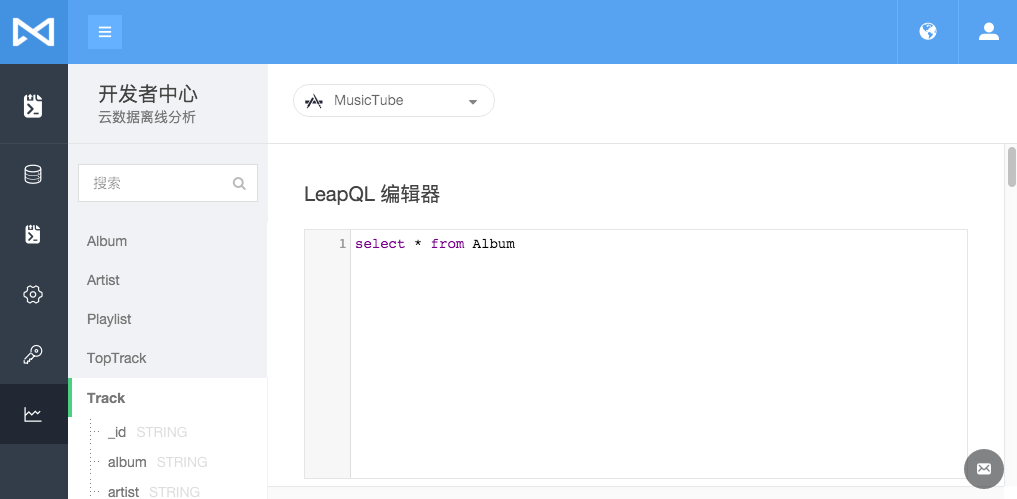
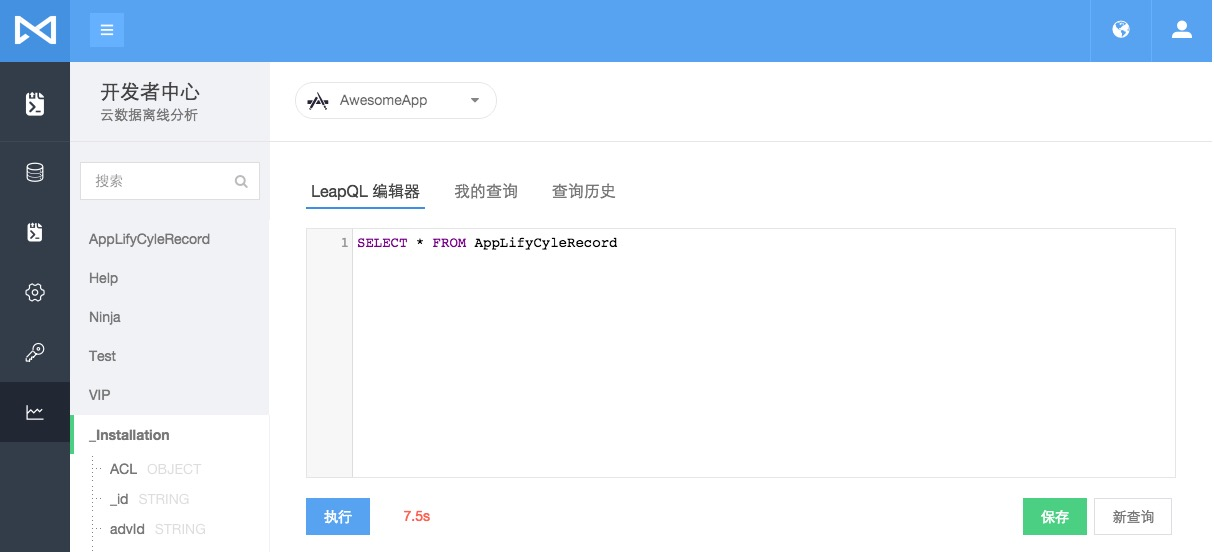
offline analysis update

diff --git a/zh/UserManual/Guide/CloudDataOfflineAnalyze.md b/zh/UserManual/Guide/CloudDataOfflineAnalyze.md
@@ -27,13 +27,33 @@ MaxLeap 云数据离线分析旨在为用户提供一种处理自有应用数据
 
 ![Offline Arch](../../../images/imgOfflineStep1.png "Offline Arch")
 
-- 打开“开发者中心”-“云数据离线分析”页面，如果您的数据已经导入完成，页面会在左侧列出当前的所有表结构
+- 打开“开发者中心”-“云数据离线分析”页面，如果您的数据已经导入完成，页面会在左侧列出当前的所有表结构，如果未完全导入，底部会出现目前导入表的信息
 
 ![Offline Arch](../../../images/imgOfflineStep2.png "Offline Arch")
 
 - 在右侧的编辑器中撰写您的LeapQL语句，点击执行，等待片刻后，页面将会返回执行结果。
 
-![Offline Arch](../../../images/imgOfflineStep3.png "Offline Arch")
+![Offline Arch](../../../images/imgOfflineStep3.jpg "Offline Arch")
+
+
+### 使用我的查询
+- 点击右下角的保存按钮，可以将编辑器中的SQL语句保存，以方便以后的查询
+![Offline Arch](../../../images/imgOfflineSaveQuery1.png "Offline Arch")
+- 填写相关的名称和描述，名称必填
+![Offline Arch](../../../images/imgOfflineSaveQuery2.png "Offline Arch")
+- 保存后，编辑器的顶部即出现关于当前查询的信息
+![Offline Arch](../../../images/imgOfflineSaveQuery3.png "Offline Arch")
+- 你可以通过右下角的新查询按钮，清空编辑器，并将上面的查询信息清空
+
+- 点击编辑器上方的我的查询标签，查看到我的查询，在这里你可以运行，编辑，复制，删除已经存在的查询语句（支持多个删除）
+![Offline Arch](../../../images/imgOfflineQueryOperate1.png "Offline Arch")
+- 以点击运行按钮为例：点击运行后，将切换到LeapQL编辑器标签页，同时运行相关查询语句，并且在编辑器顶部显示 当前的SQL语句的名称和描述，点击名称和描述可以编辑
+![Offline Arch](../../../images/imgOfflineQueryOperate2.png "Offline Arch")
+
+
+### 查询历史
+- 查询历史包含了用户所有的成功查询的SQL语句，支持关键字搜索
+![Offline Arch](../../../images/imgOfflineQueryHistory.png "Offline Arch")
 
 ### 功能介绍
 
@@ -47,7 +67,10 @@ MaxLeap 云数据离线分析旨在为用户提供一种处理自有应用数据
 当您的查询表数据规模比较小，或者您的数据已经被预热，此时您的查询速度快速，会在几秒至几十秒内返回响应。
 ##### 离线结果
 当您的查询表数据规模比较大，或者您的数据为第一次加载的冷数据，此时您的查询有可能会需要几分钟的处理时间，为了避免浪费您宝贵的时间，我们推荐耐心等待系统将查询结果发送到您的邮箱。
-
+#### 我的查询
+用户可以用将常用的查询SQL语句，保存起来，达到下次快速的进行查询
+#### 查询历史
+包含了用户所有的成功查询的SQL语句，支持关键字搜索
 #### LeapQL 支持语法
 ##### 基础SQL
 请参考基础SQL语法。支持`select`,`join`,`group by`,`order by`,`limit`等
